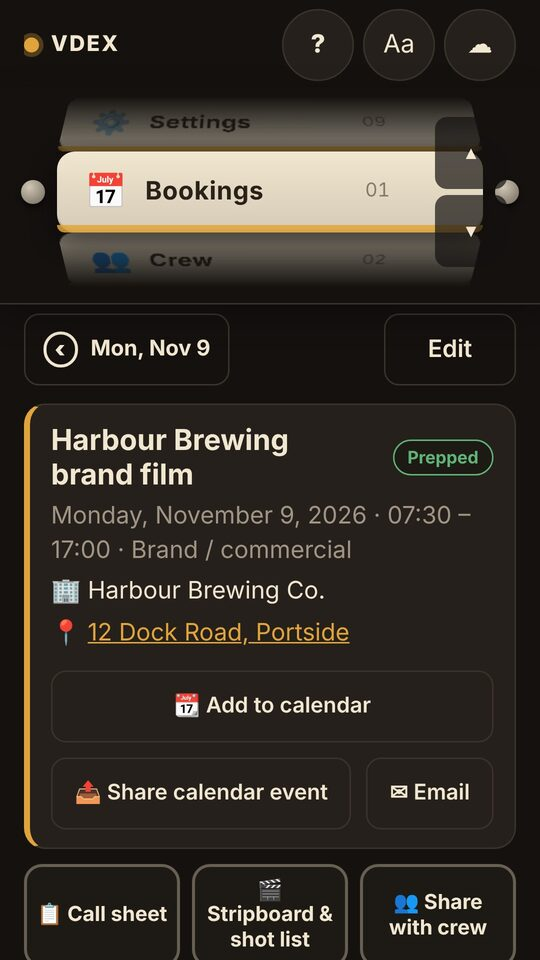
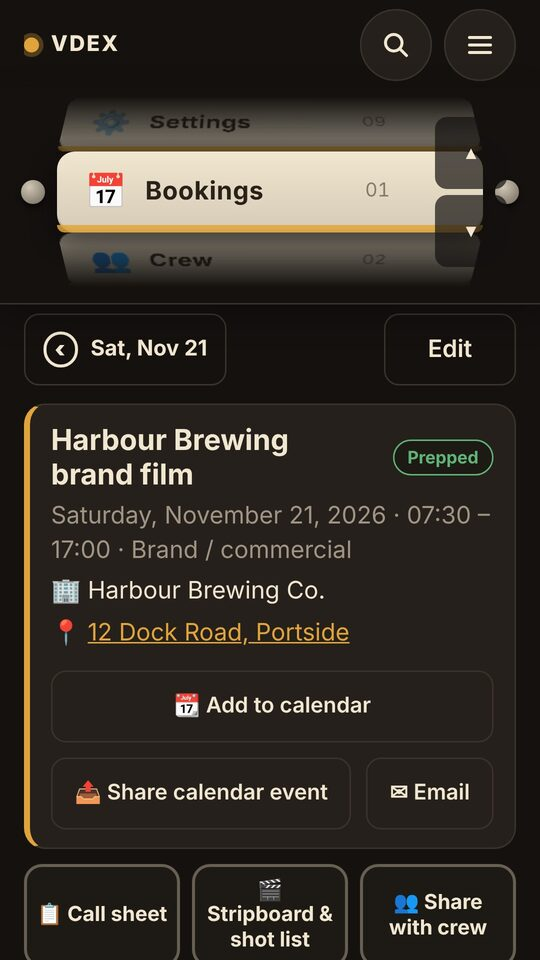
crowmade.app (not yet published): the Vdex page for 1.4.0
From the Vdex session's message, checked against vdex.crowmade.app (Install Vdex and Tutorial for
this page are rows of the ☰ menu there): Get started now says to open the menu for both.
Search everything and passing a booking, card or kit list by link or QR code join the features;
crew's 315 roles and the equipment import join their card; the price note says one person on
up to 3 devices, readable after the trial until there is a licence. The screenshots are the
ones remade for the new top bar, with Equipment in place of TC Notes. Waits for the owner's
go-ahead before tools/deploy-crowmade.sh.

Claude-Session: https://claude.ai/code/session_013RbmKx6XL267rrFPgHBgAf

diff --git a/crowmade/vdex/index.html b/crowmade/vdex/index.html
@@ -60,13 +60,15 @@ footer.site b{display:block;color:var(--ink);font-weight:600;margin-bottom:6px}f
 <p>Vdex keeps your shoots, your crew, your camera gear, the places you film and your insurance in one place. On the day of a shoot it clocks your hours, prints your call sheet and tells you when the sun sets. Afterwards it makes the quote and the invoice.</p>
 <div class="btns"><a class="btn" href="https://vdex.crowmade.app/">Open Vdex</a><a class="btn alt" href="https://vdex.crowmade.app/download.html">Download for Windows, Mac or Linux</a></div>
 <div class="price"><p class="big">Free for 30 days, then 20 US dollars once.</p><a class="btn" href="https://vdex.crowmade.app/buy">Buy a licence</a>
-<p class="note">Works on iPhone, Android and computers. Free to try for 30 days, then 20 US dollars once plus any tax where you live, for up to 3 of your devices. With tax that is 24.00 US dollars in the UK, 22.00 in Australia, and 23.40 to 25.40 in the EU, depending on the country (<a href="https://vdex.crowmade.app/download.html#price">every country's price</a>). No subscription, and no account for your work: your information stays on your own device unless you choose to copy it somewhere.</p>
+<p class="note">Works on iPhone, Android and computers. Free to try for 30 days, then 20 US dollars once plus any tax where you live, for one person on up to 3 of their devices. After the trial, Vdex stays open to read until there is a licence. With tax that is 24.00 US dollars in the UK, 22.00 in Australia, and 23.40 to 25.40 in the EU, depending on the country (<a href="https://vdex.crowmade.app/download.html#price">every country's price</a>). No subscription, and no account for your work: your information stays on your own device unless you choose to copy it somewhere.</p>
 <p class="note">You are buying a licence to use Vdex, not ownership of a copy. It can be cancelled in the cases the <a href="https://vdex.crowmade.app/terms.html#paid">terms</a> describe. At checkout you can pay in US dollars, or in your own currency at Stripe's exchange rate (2 to 4% more).</p></div>
-<div class="shots"><img src="shot-booking.jpg" alt="A booking: the shoot, the client and the address, with its call sheet, stripboard and crew link"><img src="shot-call-sheet.jpg" alt="A call sheet filled in from the booking: call and wrap times, sunrise and sunset, the venue"><img src="shot-timecode.jpg" alt="Timecode notes: the camera's running timecode, ready to stamp a note"><img src="shot-money.jpg" alt="Money: what is invoiced, overdue, quoted and paid, shoot by shoot"></div>
+<div class="shots"><img src="shot-booking.jpg" alt="A booking: the shoot, the client and the address, with its call sheet, stripboard and crew link"><img src="shot-call-sheet.jpg" alt="A call sheet filled in from the booking: call and wrap times, sunrise and sunset, the venue"><img src="shot-equipment.jpg" alt="Equipment: your kit with serial numbers and values, imported from a list you already keep, or shared by link"><img src="shot-money.jpg" alt="Money: what is invoiced, overdue, quoted and paid, shoot by shoot"></div>
 <h2>What it does</h2>
 <div class="features">
 <div class="card"><h3>Bookings</h3><p>A calendar of shoots. Tap a day, then a shoot, to see everything about it: the client, the address, the crew and the kit you're taking.</p></div>
-<div class="card"><h3>Crew, equipment, venues and insurance</h3><p>The people you work with, everything you own with serial numbers and where each item is, the places you film with their rules and parking, and when your policies run out.</p></div>
+<div class="card"><h3>Crew, equipment, venues and insurance</h3><p>The people you work with, grouped by 315 film and video roles; everything you own with serial numbers and where each item is, imported from the list you already keep (CSV, Excel, pasted text or an asset register); the places you film with their rules and parking; and when your policies run out.</p></div>
+<div class="card"><h3>Search everything</h3><p>One search at the top finds bookings, crew, kit, quotes, invoices, call sheets and notes.</p></div>
+<div class="card"><h3>Pass it on by link or QR code</h3><p>Send someone a booking, your contact card or an equipment list. They add it to their own Vdex, and a newer link updates it.</p></div>
 <div class="card"><h3>The shoot-day clock</h3><p>Tap Start work, Break and Stop work, and the hours are counted for you.</p></div>
 <div class="card"><h3>Call sheets and a crew link</h3><p>The call sheet is already filled in from the booking: add the schedule, then email it or print it. Or send your cast and crew a link to the schedule, location and shot list, with no prices in it.</p></div>
 <div class="card"><h3>Stripboard</h3><p>Pick the script and every scene becomes a colour-coded strip with its cast and page count. Drag the strips into shooting days.</p></div>
@@ -78,8 +80,8 @@ footer.site b{display:block;color:var(--ink);font-weight:600;margin-bottom:6px}f
 <h2>Get started</h2>
 <ol class="steps">
 <li><b>Open Vdex</b> at <a href="https://vdex.crowmade.app/">vdex.crowmade.app</a>, or download the desktop app from the <a href="https://vdex.crowmade.app/download.html">download page</a>.</li>
-<li><b>Put it on your home screen</b> so it works like a normal app, even with no signal. iPhone: Safari's Share button, then <i>Add to Home Screen</i>. Android and computers: tap <i>Install</i> at the top of the page.</li>
-<li><b>Tap ?</b> at the top of any page for a walkthrough of that page, box by box.</li>
+<li><b>Put it on your home screen</b> so it works like a normal app, even with no signal. iPhone: Safari's Share button, then <i>Add to Home Screen</i>. Android and computers: open the menu <b>☰</b> at the top right and tap <i>Install Vdex</i>.</li>
+<li><b>Open the menu ☰</b> and tap <i>Tutorial for this page</i> for a walkthrough of that page, box by box.</li>
 </ol>
 <p class="note"><a href="https://vdex.crowmade.app/privacy.html">Privacy policy</a> · <a href="https://vdex.crowmade.app/terms.html">Terms of service</a></p>
 </main>
